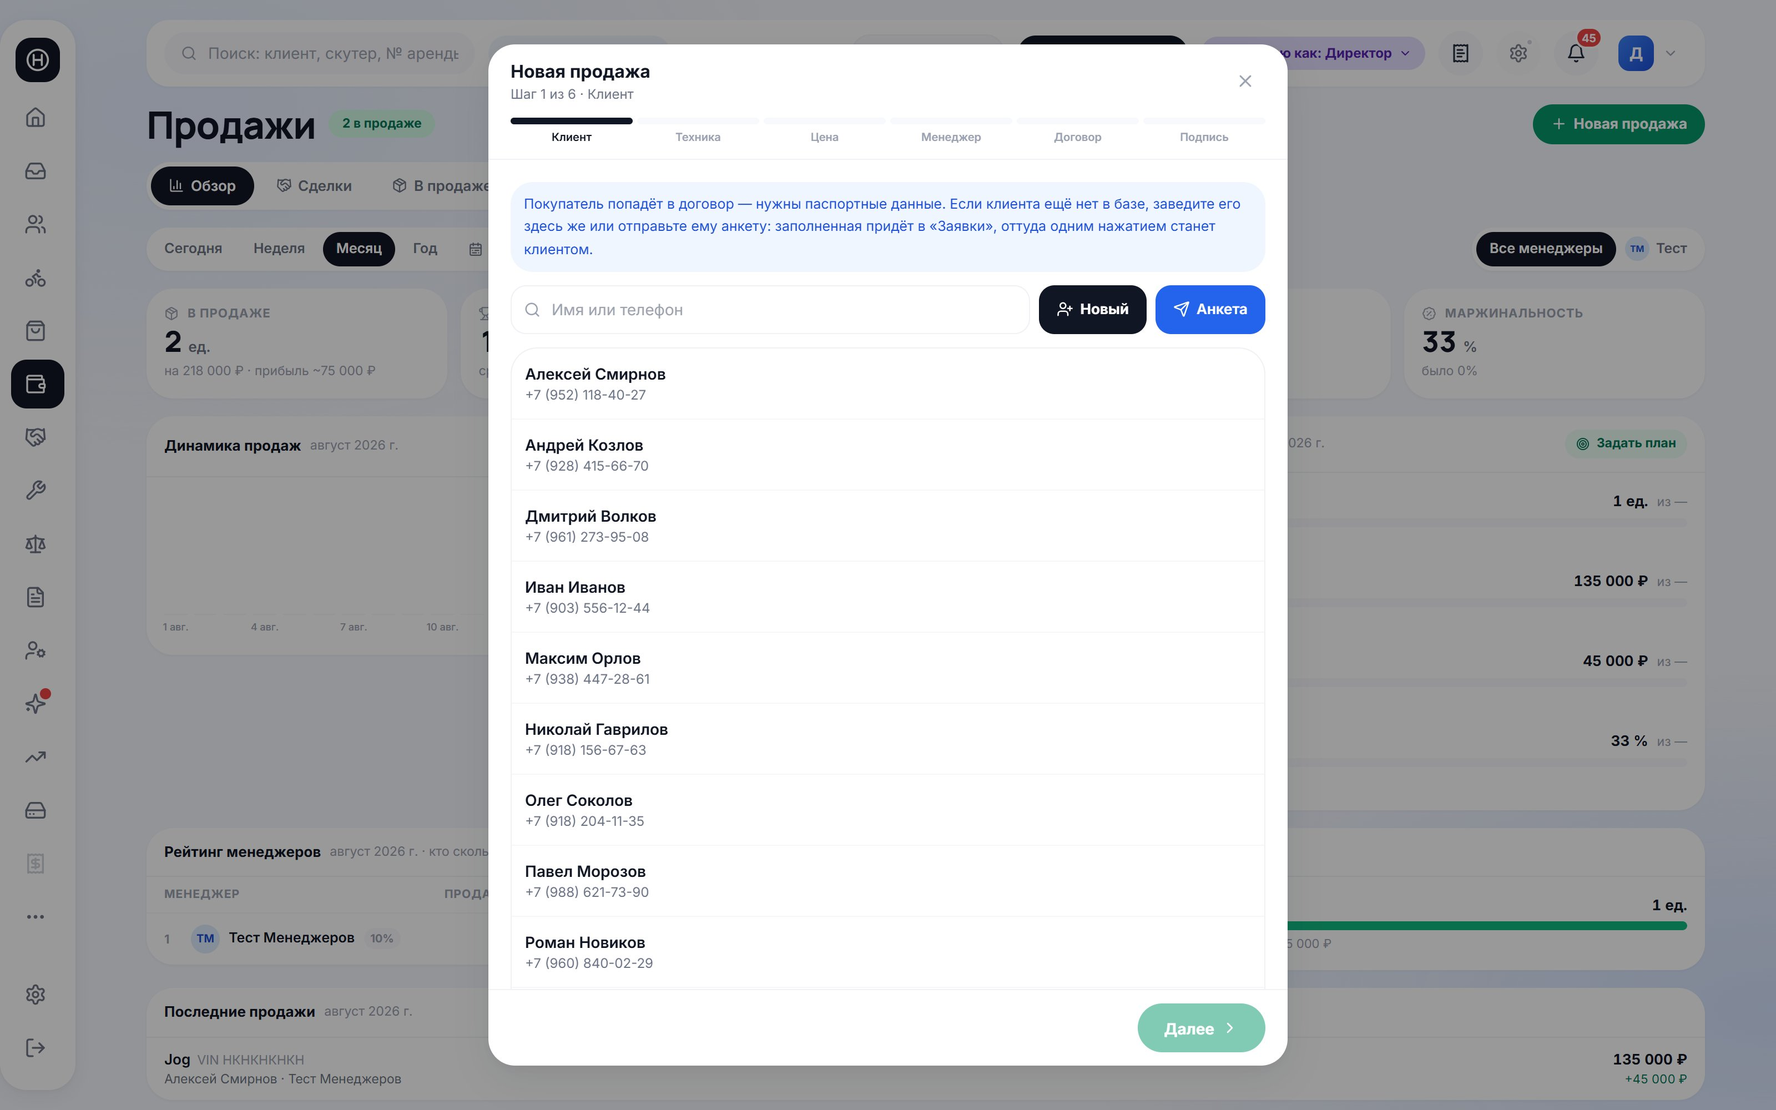
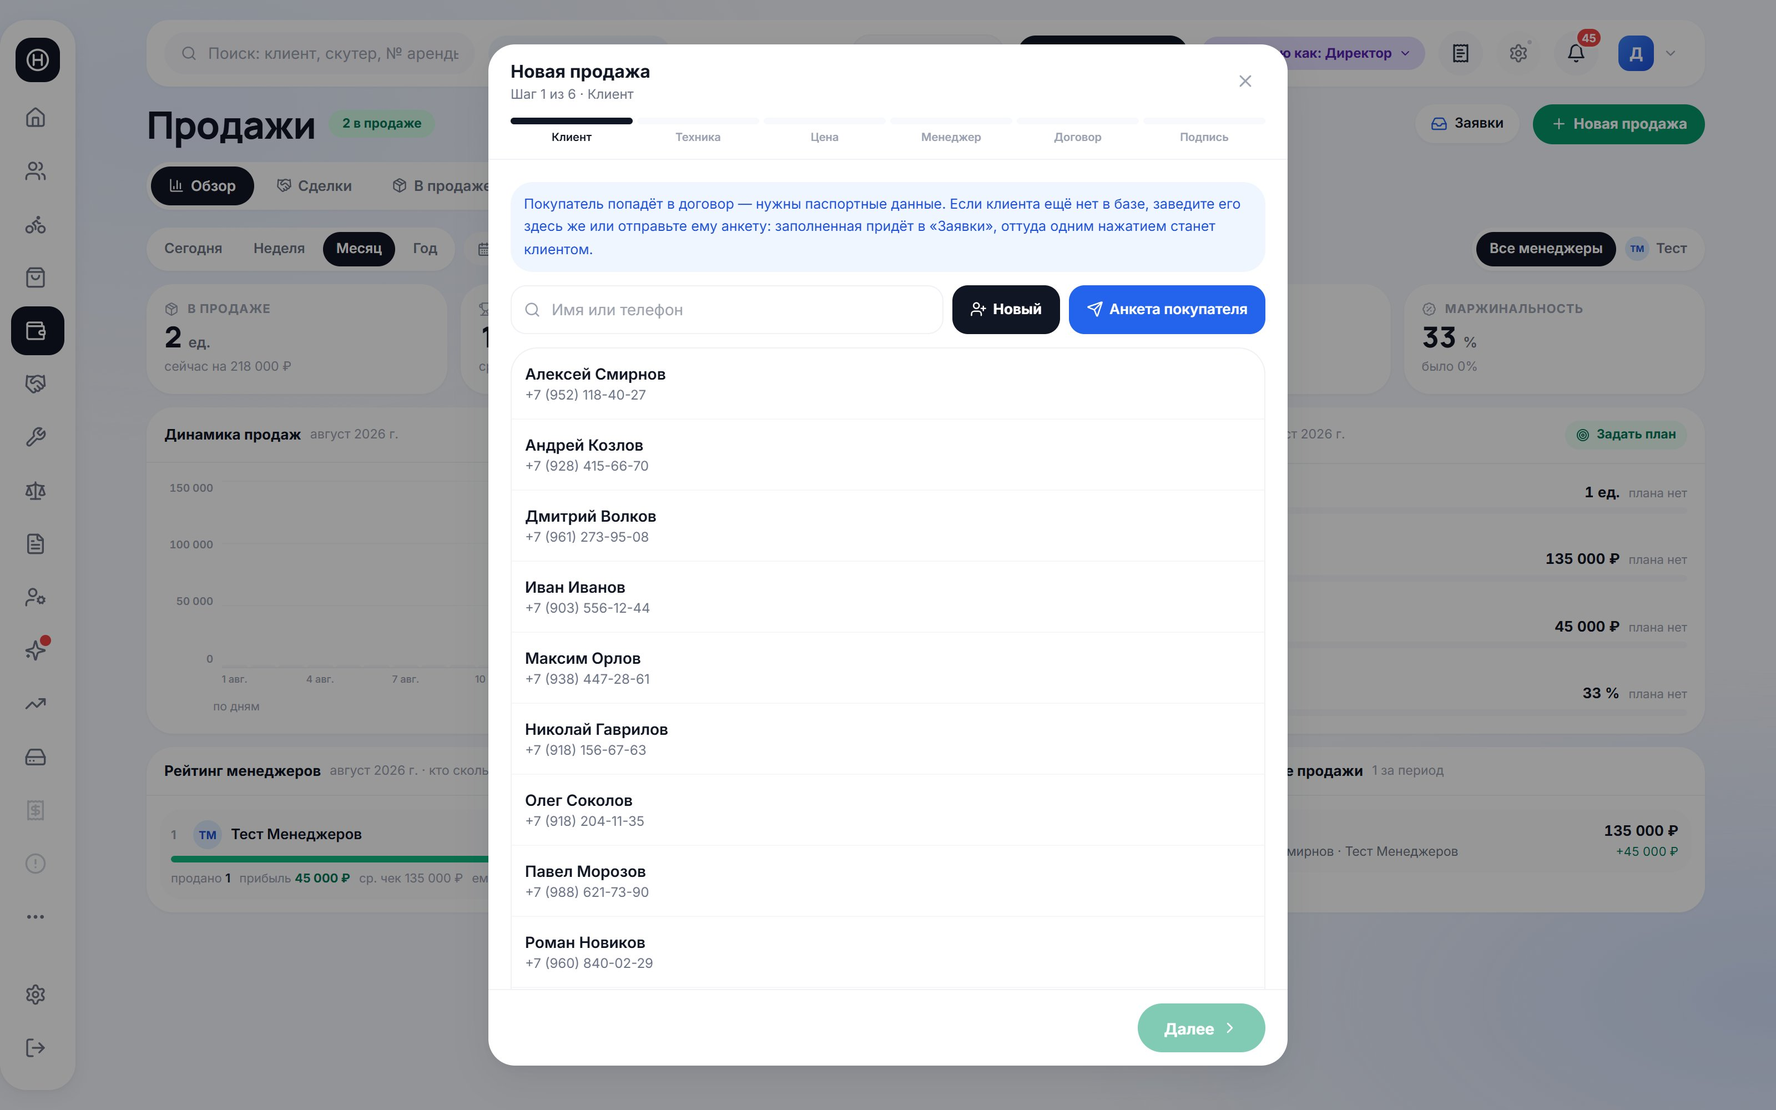
docs(развитие): пункты 2.21-2.22 — заявки по разделам и карточка техники
2.21 Заявки: переезд внутрь «Аренд» и «Продаж», меню по наведению с
     каналами отправки, погружение с кнопкой «Назад», отдельная анкета
     покупателя (8 шагов вместо 13, без выбора техники), МАКС и
     копирование ссылки.
2.22 Карточка техники: боковая панель разделов, обложка как на телефоне,
     состояние над паспортом, VIN и рама одной строкой.
Плюс переписан абзац про график в 2.19 и пересняты устаревшие кадры.

diff --git a/apps/web/src/data/progress.ts b/apps/web/src/data/progress.ts
@@ -1500,7 +1500,17 @@ export const progressItems: ProgressItem[] = [
       {
         tag: "fix",
         text:
-          "План продаж ставится на месяц по четырём показателям — единицы, выручка, прибыль, маржинальность. Под каждым полоса выполнения: сколько сделано, сколько осталось, какой процент закрыт. Задаёт план директор. Динамика показывается в разрезе день / неделя / месяц / год, пустые интервалы тоже на графике — видно не только всплески, но и провалы. К ряду добавлен прогнозный столбик: он считается по линейному тренду периода и появляется, только когда есть по чему строить тренд — на единственной продаже прогноза не будет, чтобы не пугать выдуманной цифрой.",
+          "План продаж ставится на месяц по четырём показателям — единицы, выручка, прибыль, маржинальность. Под каждым полоса выполнения: сколько сделано, сколько осталось, какой процент закрыт. Задаёт план директор.",
+      },
+      {
+        tag: "fix",
+        text:
+          "График переделан по фидбэку. Разрез больше не выбирается отдельным переключателем — он следствие периода: «Сегодня» рисуется по часам, «Неделя» и «Месяц» — по дням, «Год» — по месяцам, произвольный диапазон — по своей длине. Два переключателя рядом были задвоением. Правый край графика — всегда текущий момент: за сегодня последний столбик это текущий час, а не пустые часы из будущего. Появилась сетка с подписями сумм, столбики выросли с анимацией и имеют предельную ширину — на одной продаже полоса больше не растягивается во весь блок и не читается как заливка. Подписи оси прореживаются, а не наезжают друг на друга. Произвольный период выбирается тем же календарём, что в «Клиентах» и «Арендах», — привычным, а не самодельным.",
+      },
+      {
+        tag: "fix",
+        text:
+          "Убраны пустоты: динамика и план стоят в одной строке одинаковой высоты, рейтинги менеджеров и моделей и «Последние продажи» — в одном ряду из трёх карточек. Рейтинг менеджеров показан списком, а не таблицей: семь столбцов в узкой колонке обрезались краем, и половина цифр была не видна. Все показатели наверху пересчитываются под выбранный период; «В продаже» — единственный, который считается на сейчас, и это подписано.",
       },
       {
         tag: "fix",
@@ -1597,6 +1607,96 @@ export const progressItems: ProgressItem[] = [
         imgs: [
           { src: "/progress/v5-sidebar.jpg", label: "Меню: рабочее сверху, «скоро» — внизу" },
         ],
+      },
+    ],
+  },
+  {
+    id: "2.21",
+    group: "fixes2",
+    title: "Заявки переехали в свои разделы, анкета покупателя — отдельная",
+    quote:
+      "Отдельно в сайдбаре стояли заявки, потому что они были только на аренду. Сейчас заявки есть на аренду и на продажу — блок заявок на аренду переместить внутрь аренды, и аналогично в продажах. Оттуда можно быстро одним нажатием скопировать ссылку на анкету. Покупателю в анкете не нужно выбирать технику: по телефону говорят одно, а покупают другое — от заявки в продажах нужны только его данные, чтобы завести клиента в CRM.",
+    status: "done",
+    note:
+      "«Заявки» убраны из меню: арендные живут в «Арендах», на покупку — в «Продажах». Анкета покупателя отдельная — только паспортные данные, без выбора модели и экипировки.",
+    story: [
+      {
+        tag: "bug",
+        text:
+          "Пункт меню «Заявки» имел смысл, пока анкета была одна. Как только появилась вторая — стало непонятно, чьи заявки там лежат, и работать с ними приходилось не там, где ведёшь сделку.",
+      },
+      {
+        tag: "fix",
+        text:
+          "Теперь кнопка «Заявки» стоит в шапке «Аренд» и «Продаж», со счётчиком новых по своему типу. Наведение раскрывает меню: «Открыть список» и «Отправить анкету» — сразу с каналами: скопировать ссылку, WhatsApp, Telegram, МАКС. Самое частое действие (кинуть клиенту ссылку) делается одним движением, без промежуточных окон. Счётчик новых заявок в меню тоже переехал: он теперь на «Арендах» и «Продажах».",
+        imgs: [
+          {
+            src: "/progress/v5-apps-menu.jpg",
+            label: "Меню по наведению: открыть список или сразу отправить анкету",
+          },
+        ],
+      },
+      {
+        tag: "fix",
+        text:
+          "Список открывается «погружением» — экран влетает вперёд, а не выезжает сбоку, и возвращает кнопка «Назад» слева, а не крестик в правом углу. По фидбэку: выезжающая сбоку панель с крестиком читалась как случайно всплывшее окно.",
+        imgs: [
+          { src: "/progress/v5-apps-dive.jpg", label: "Заявки на покупку: кнопка «Назад» слева" },
+        ],
+      },
+      {
+        tag: "fix",
+        text:
+          "Анкета покупателя — отдельная, открывается своей ссылкой. В ней нет выбора модели, экипировки и срока аренды, нет водительских прав и инструктажа по прокату: 8 шагов вместо 13, только то, что нужно, чтобы завести клиента — контакты, паспорт, его фото и селфи. Технику покупатель всё равно выбирает вживую. Заполненная анкета приходит в «Заявки на покупку» с бейджем «Покупка» и одним нажатием превращается в клиента.",
+        imgs: [
+          { src: "/progress/v5-sale-form.jpg", label: "Анкета покупателя: 8 шагов вместо 13" },
+        ],
+      },
+      {
+        tag: "fix",
+        text:
+          "Окно отправки анкеты дополнено: помимо WhatsApp и Telegram появился МАКС и кнопки «Скопировать ссылку» и «С текстом» — их не хватало и в арендных заявках. Важная деталь про МАКС: он не даёт ссылки на чат по номеру телефона, такой возможности у мессенджера нет — поэтому там сообщение кладётся в буфер, останется вставить его в чат.",
+        imgs: [
+          { src: "/progress/v5-send-form.jpg", label: "Куда отправить: три мессенджера и копирование" },
+        ],
+      },
+    ],
+  },
+  {
+    id: "2.22",
+    group: "fixes2",
+    title: "Карточка техники: боковые разделы, обложка и данные без дублей",
+    quote:
+      "Карточка скутера на мобильном мне больше нравится, нежели версия для компьютера — там табы странные с нижним скроллом, а можно было сделать боковую панель с кнопками, которые быстро погружают в нужный раздел с плавной анимацией. Информацию о скутере тоже компактнее: строки «VIN» и «номер рамы» — это одинаковые значения, две одинаковые строчки отображаться не должны. Показатели пробега, масла поднять выше, чтобы быстро считать состояние скутера, а затем его данные. Блок обложки имеет поломанную вёрстку — на мобиле выглядит лучше: сверху аватар модели, далее информация о ней.",
+    status: "done",
+    note:
+      "Разделы карточки переехали на боковую панель, обложка сделана как на телефоне, состояние подняли над техпаспортом, VIN и номер рамы показываются одной строкой.",
+    story: [
+      {
+        tag: "bug",
+        text:
+          "Вкладки карточки не помещались в ширину дровера и уезжали в горизонтальный скролл — часть разделов приходилось искать прокруткой. Фото модели жалось в узкую колонку слева, а если у модели фото не загружено, шапка карточки выглядела сломанной. VIN и номер рамы шли двумя строками с одинаковым значением, а пробег и ресурс масла были ниже паспортных данных.",
+      },
+      {
+        tag: "fix",
+        text:
+          "Слева появилась узкая панель разделов с иконками: Обзор, Деньги, Аренды, События, Ремонты, Расходы, Файлы. Все разделы видны сразу, счётчики (сколько аренд, ремонтов, расходов) на месте, переключение анимировано — раздел появляется, а не подменяется рывком. Горизонтального скролла в карточке больше нет.",
+        imgs: [
+          {
+            src: "/progress/v5-card-drawer.jpg",
+            label: "Боковые разделы, обложка сверху, состояние над паспортом",
+          },
+        ],
+      },
+      {
+        tag: "fix",
+        text:
+          "Обложка сделана как на телефоне: фото модели во всю ширину, под ним модель, год и цвет. Если фото у модели нет — вместо него понятная заглушка «Фото модели не загружено», и блок занимает меньше места. Сразу под обложкой — состояние техники одной полосой: пробег, остаток ресурса масла с полоской и сумма расходов на обслуживание. Сначала видно, как техника себя чувствует, и только потом её паспорт.",
+      },
+      {
+        tag: "fix",
+        text:
+          "VIN и номер рамы у скутера — одно и то же клеймо, и в базе они дублируются. Теперь это одна строка «VIN / номер рамы»; двумя строками покажем, только если в базе значения реально разошлись — тогда это повод разобраться, а не визуальный шум.",
       },
     ],
   },
